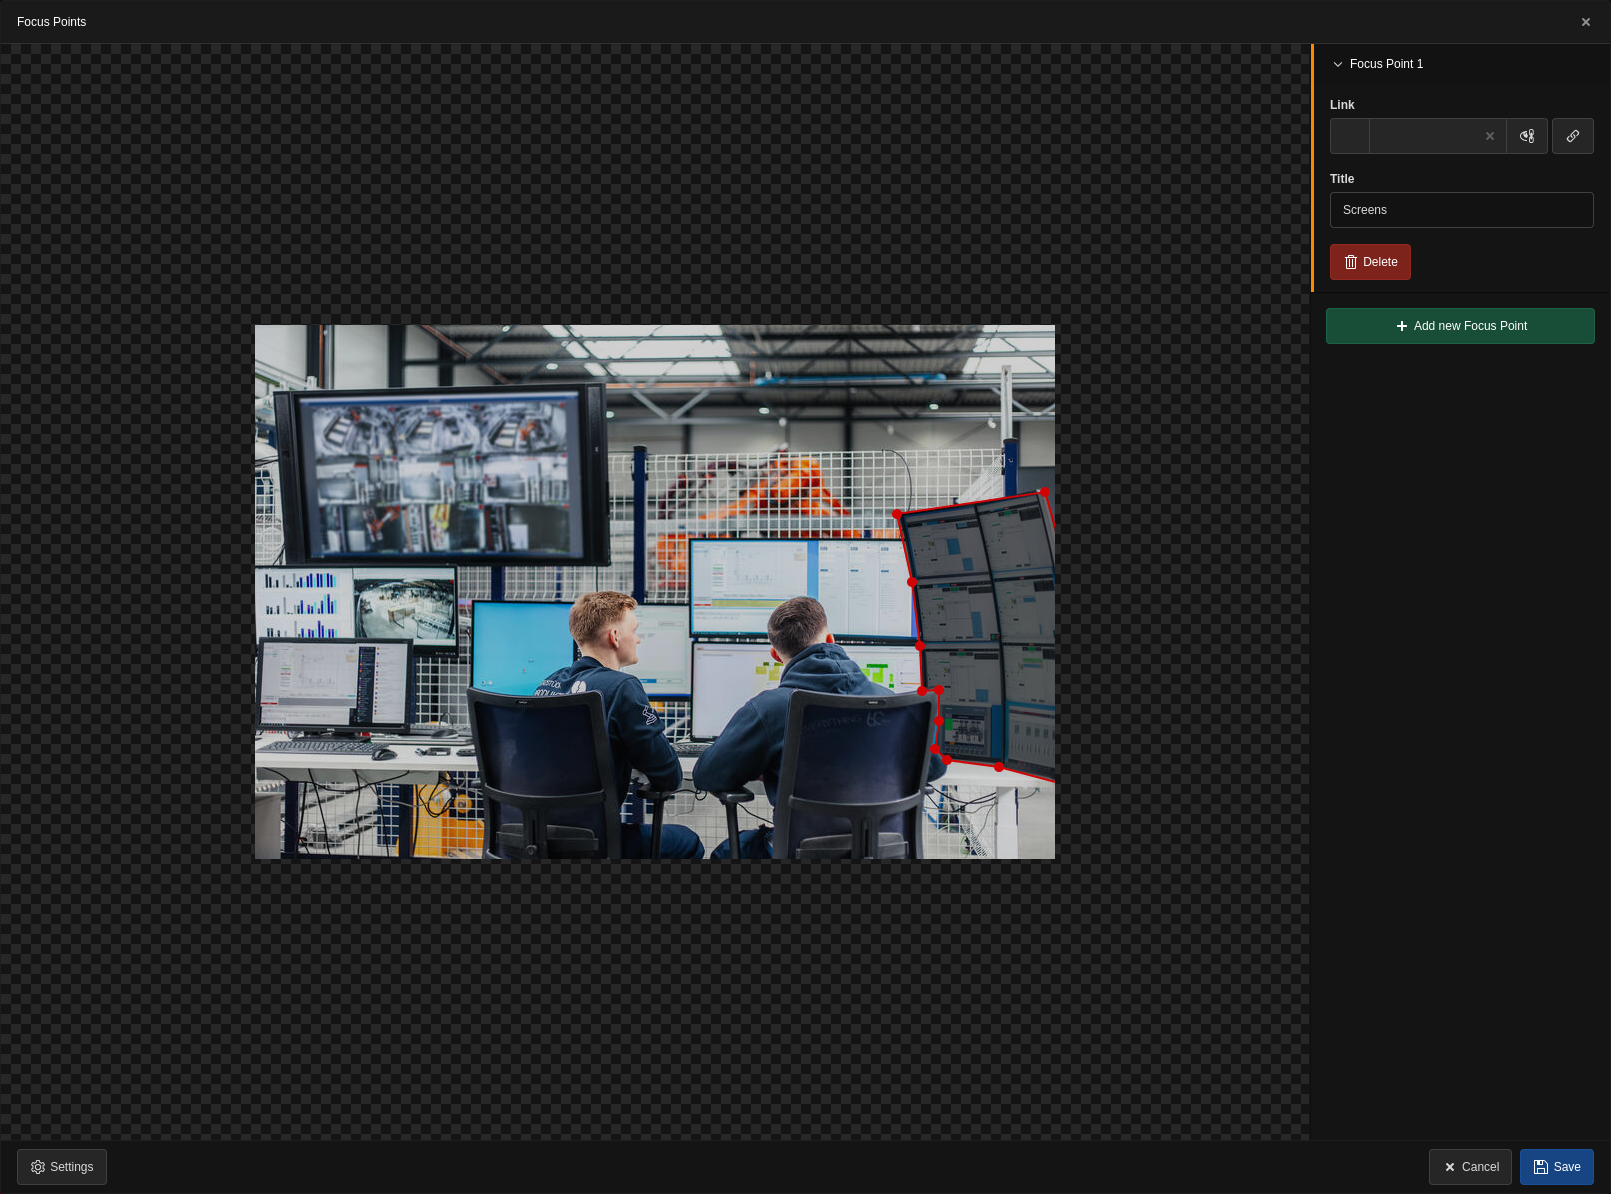
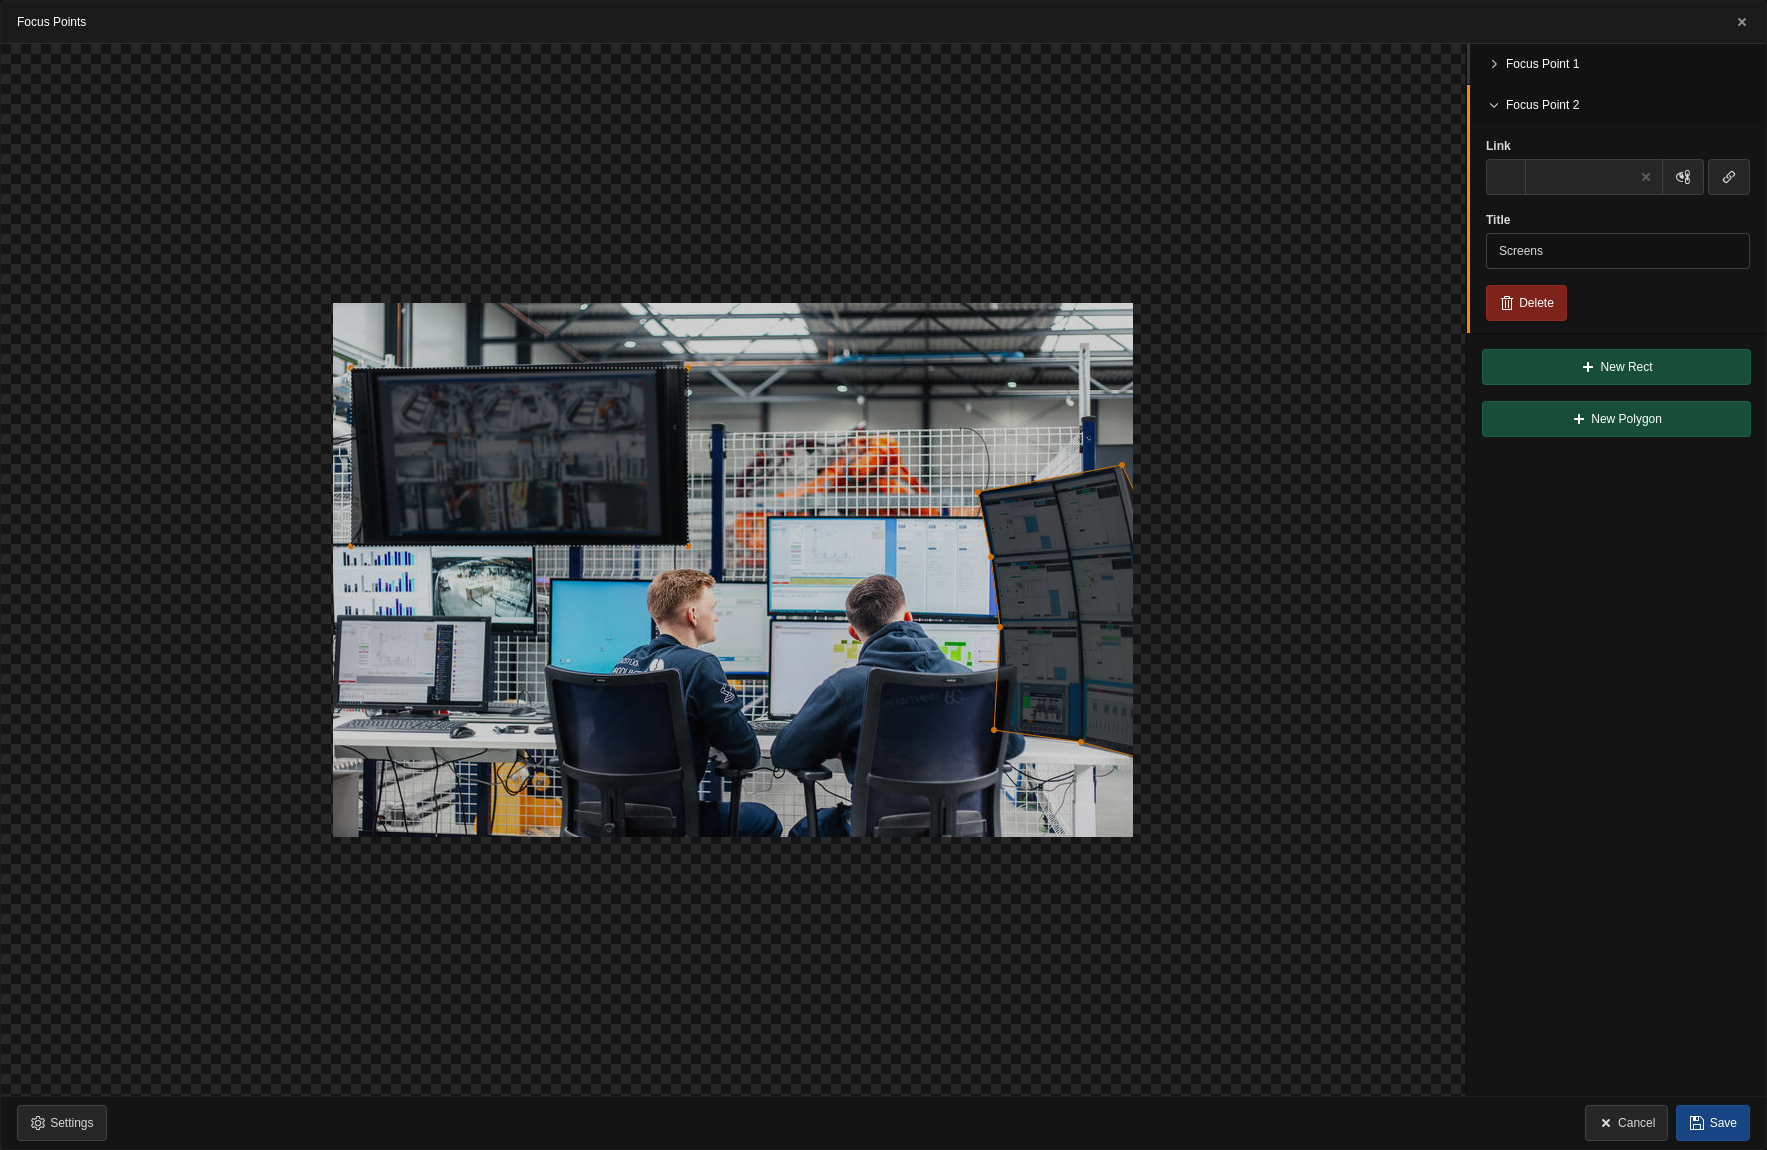
docs: update documentation

diff --git a/Documentation/Index.rst b/Documentation/Index.rst
@@ -192,11 +192,11 @@ Upgrade
 
 To version 6.x
 ---------------
-The rectangular shapes were replaced with custom polygon areas.
+Added polygon shapes.
 
-The JSON schema for the column `focus_points` was changed. Objects do not have the properties `x`, `y`, `width` and `height`. Instead, they must be replaced with a property `points` that contains an array of two-dimensional points.
+The JSON schema for the column `focus_points` was changed. Object properties like `x`, `y`, `width` and `height` are moved one level deeper into the key `__data`. In order to migrate the schema there is a command `focuspoint:schema:repair`
 
-Default fields like `name`, `description`, `color`, `hasLink` were deleted but they can be created per project anyways. The default Fluid template renders only polygons and links. You must override them if you need extra fields to be rendered.
+Default fields like `name`, `description`, `color`, `hasLink` were deleted but they can be created per project anyways. The default Fluid template renders only shapes and links. You must override them if you need extra fields to be rendered.
 
 Fixed a visual bug, when the `<svg>` element couldn't fully overlap the `<img>` when the image's width is not 100%. All images by default have the width of 100%.
 
@@ -243,4 +243,4 @@ Feel free to contribute!
     TYPO3 v12 support
 
 .. versionadded:: 6.0.0
-    Replace rectangular areas with custom polygon forms
+    Add polygons in addition to rects
